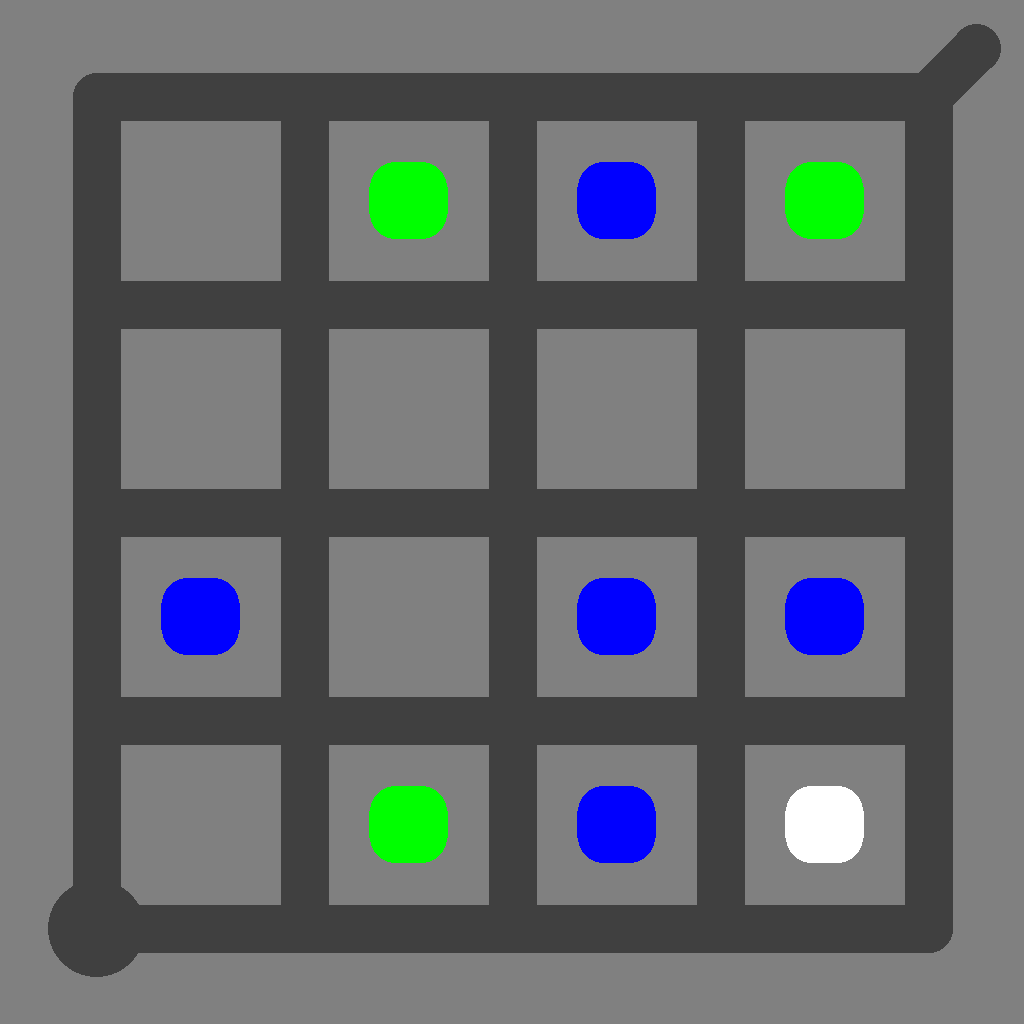
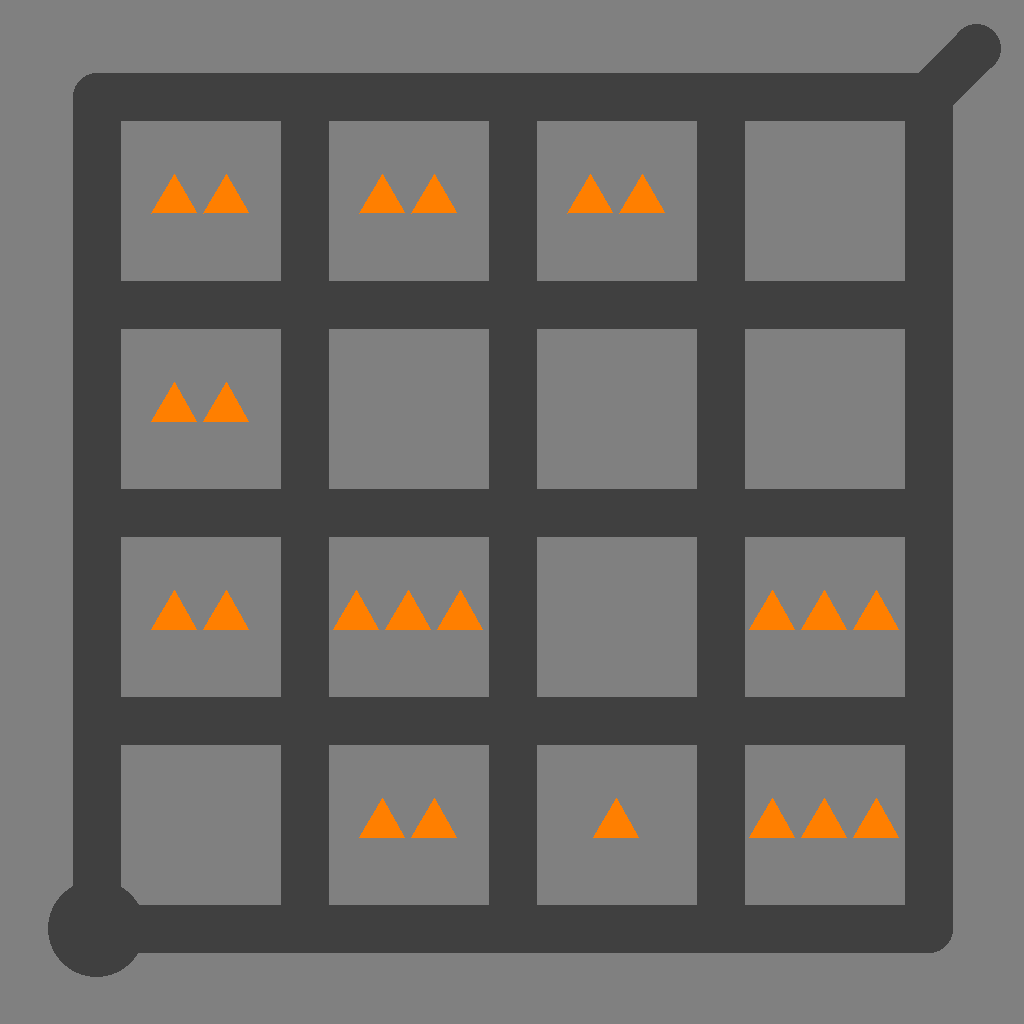
Add files via upload

diff --git a/PYTHON/randgrid.py b/PYTHON/randgrid.py
@@ -87,12 +87,12 @@ class RandGrid: # Right now always generates 4x4 grids.
         
         count = 0
         while len(things) < numCuts and count < NUM_ATTEMPTS * NUM_ATTEMPTS:
+            count = count + 1
             pos = (random.randint(0, self.size[0] - 1), random.randint(0, self.size[1] - 1))
             if pos in path:
                 continue
             if (pos[0] % 2 == 1) != (pos[1] % 2 == 1):
                 things.add(pos)
-            count = count + 1
         
         grid = Grid(self.objGrid())
         for pos in things:
@@ -136,12 +136,12 @@ class RandGrid: # Right now always generates 4x4 grids.
         things = set()
         count = 0
         while len(things) < numCuts and count < NUM_ATTEMPTS * NUM_ATTEMPTS:
+            count = count + 1
             pos = (random.randint(0, self.size[0] - 1), random.randint(0, self.size[1] - 1))
             if pos in path:
                 continue
             if (pos[0] % 2) != (pos[1] % 2):
                 things.add(pos)
-            count = count + 1
         
         for i in things:
             v[i[0]][i[1]].isPath = False
@@ -169,10 +169,10 @@ class RandGrid: # Right now always generates 4x4 grids.
         
         count = 0
         while len(things) < numBlobs and count < NUM_ATTEMPTS * NUM_ATTEMPTS:
+            count = count + 1
             x = 1 + 2 * random.randint(0, self.size[0] // 2 - 1)
             y = 1 + 2 * random.randint(0, self.size[1] // 2 - 1)
             things.add((x, y))
-            count = count + 1
         
         for i in things:
             reg = -1
@@ -188,10 +188,54 @@ class RandGrid: # Right now always generates 4x4 grids.
             v[i[0]][i[1]] = Blob(color)
         
         return Grid(v)
+
+    def randTriangles(self, numTriangles, numCuts):
+        if (self.singlepath):
+            self.pathfind()
         
+        path = self.possiblePaths[random.randint(0, len(self.possiblePaths) - 1)]
+        self.getRegions(path)
+        
+        v = self.objGrid()
 
+        things = set()
+        count = 0
+        while len(things) < numCuts and count < NUM_ATTEMPTS * NUM_ATTEMPTS:
+            count = count + 1
+            pos = (random.randint(0, self.size[0] - 1), random.randint(0, self.size[1] - 1))
+            if pos in path:
+                continue
+            if (pos[0] % 2) != (pos[1] % 2):
+                things.add(pos)
+        
+        for i in things:
+            v[i[0]][i[1]].isPath = False
 
-
+        
+        trix = dict()
+        count = 0
+        while len(things) < numTriangles and count < NUM_ATTEMPTS * NUM_ATTEMPTS:
+            count = count + 1
+            x = 1 + 2 * random.randint(0, self.size[0] // 2 - 1)
+            y = 1 + 2 * random.randint(0, self.size[1] // 2 - 1)
+            pathcount = 0
+            for d in range(4):
+                xp = x + self.dx[d]
+                yp = y + self.dy[d]
+                if not self.inside((xp, yp)):
+                    continue
+                if (xp, yp) in path:
+                    pathcount = pathcount + 1
+            if pathcount == 0:
+                continue
+            trix[(x, y)] = pathcount
+            things.add((x, y))
+        
+        for i in things:
+            v[i[0]][i[1]] = Triangle(trix[i])
+        
+        return Grid(v)
+    
 
     
     # Region Finding

diff --git a/PYTHON/main.py b/PYTHON/main.py
@@ -71,4 +71,4 @@ render("examples/nexie2.png", renevant, filter = Color.BLUE.value)
 rand = RandGrid()
 rand.pathfind()
 
-render("examples/random.png", rand.randBlobs(9, 3, 0))
+render("examples/random.png", rand.randTriangles(10, 0))
